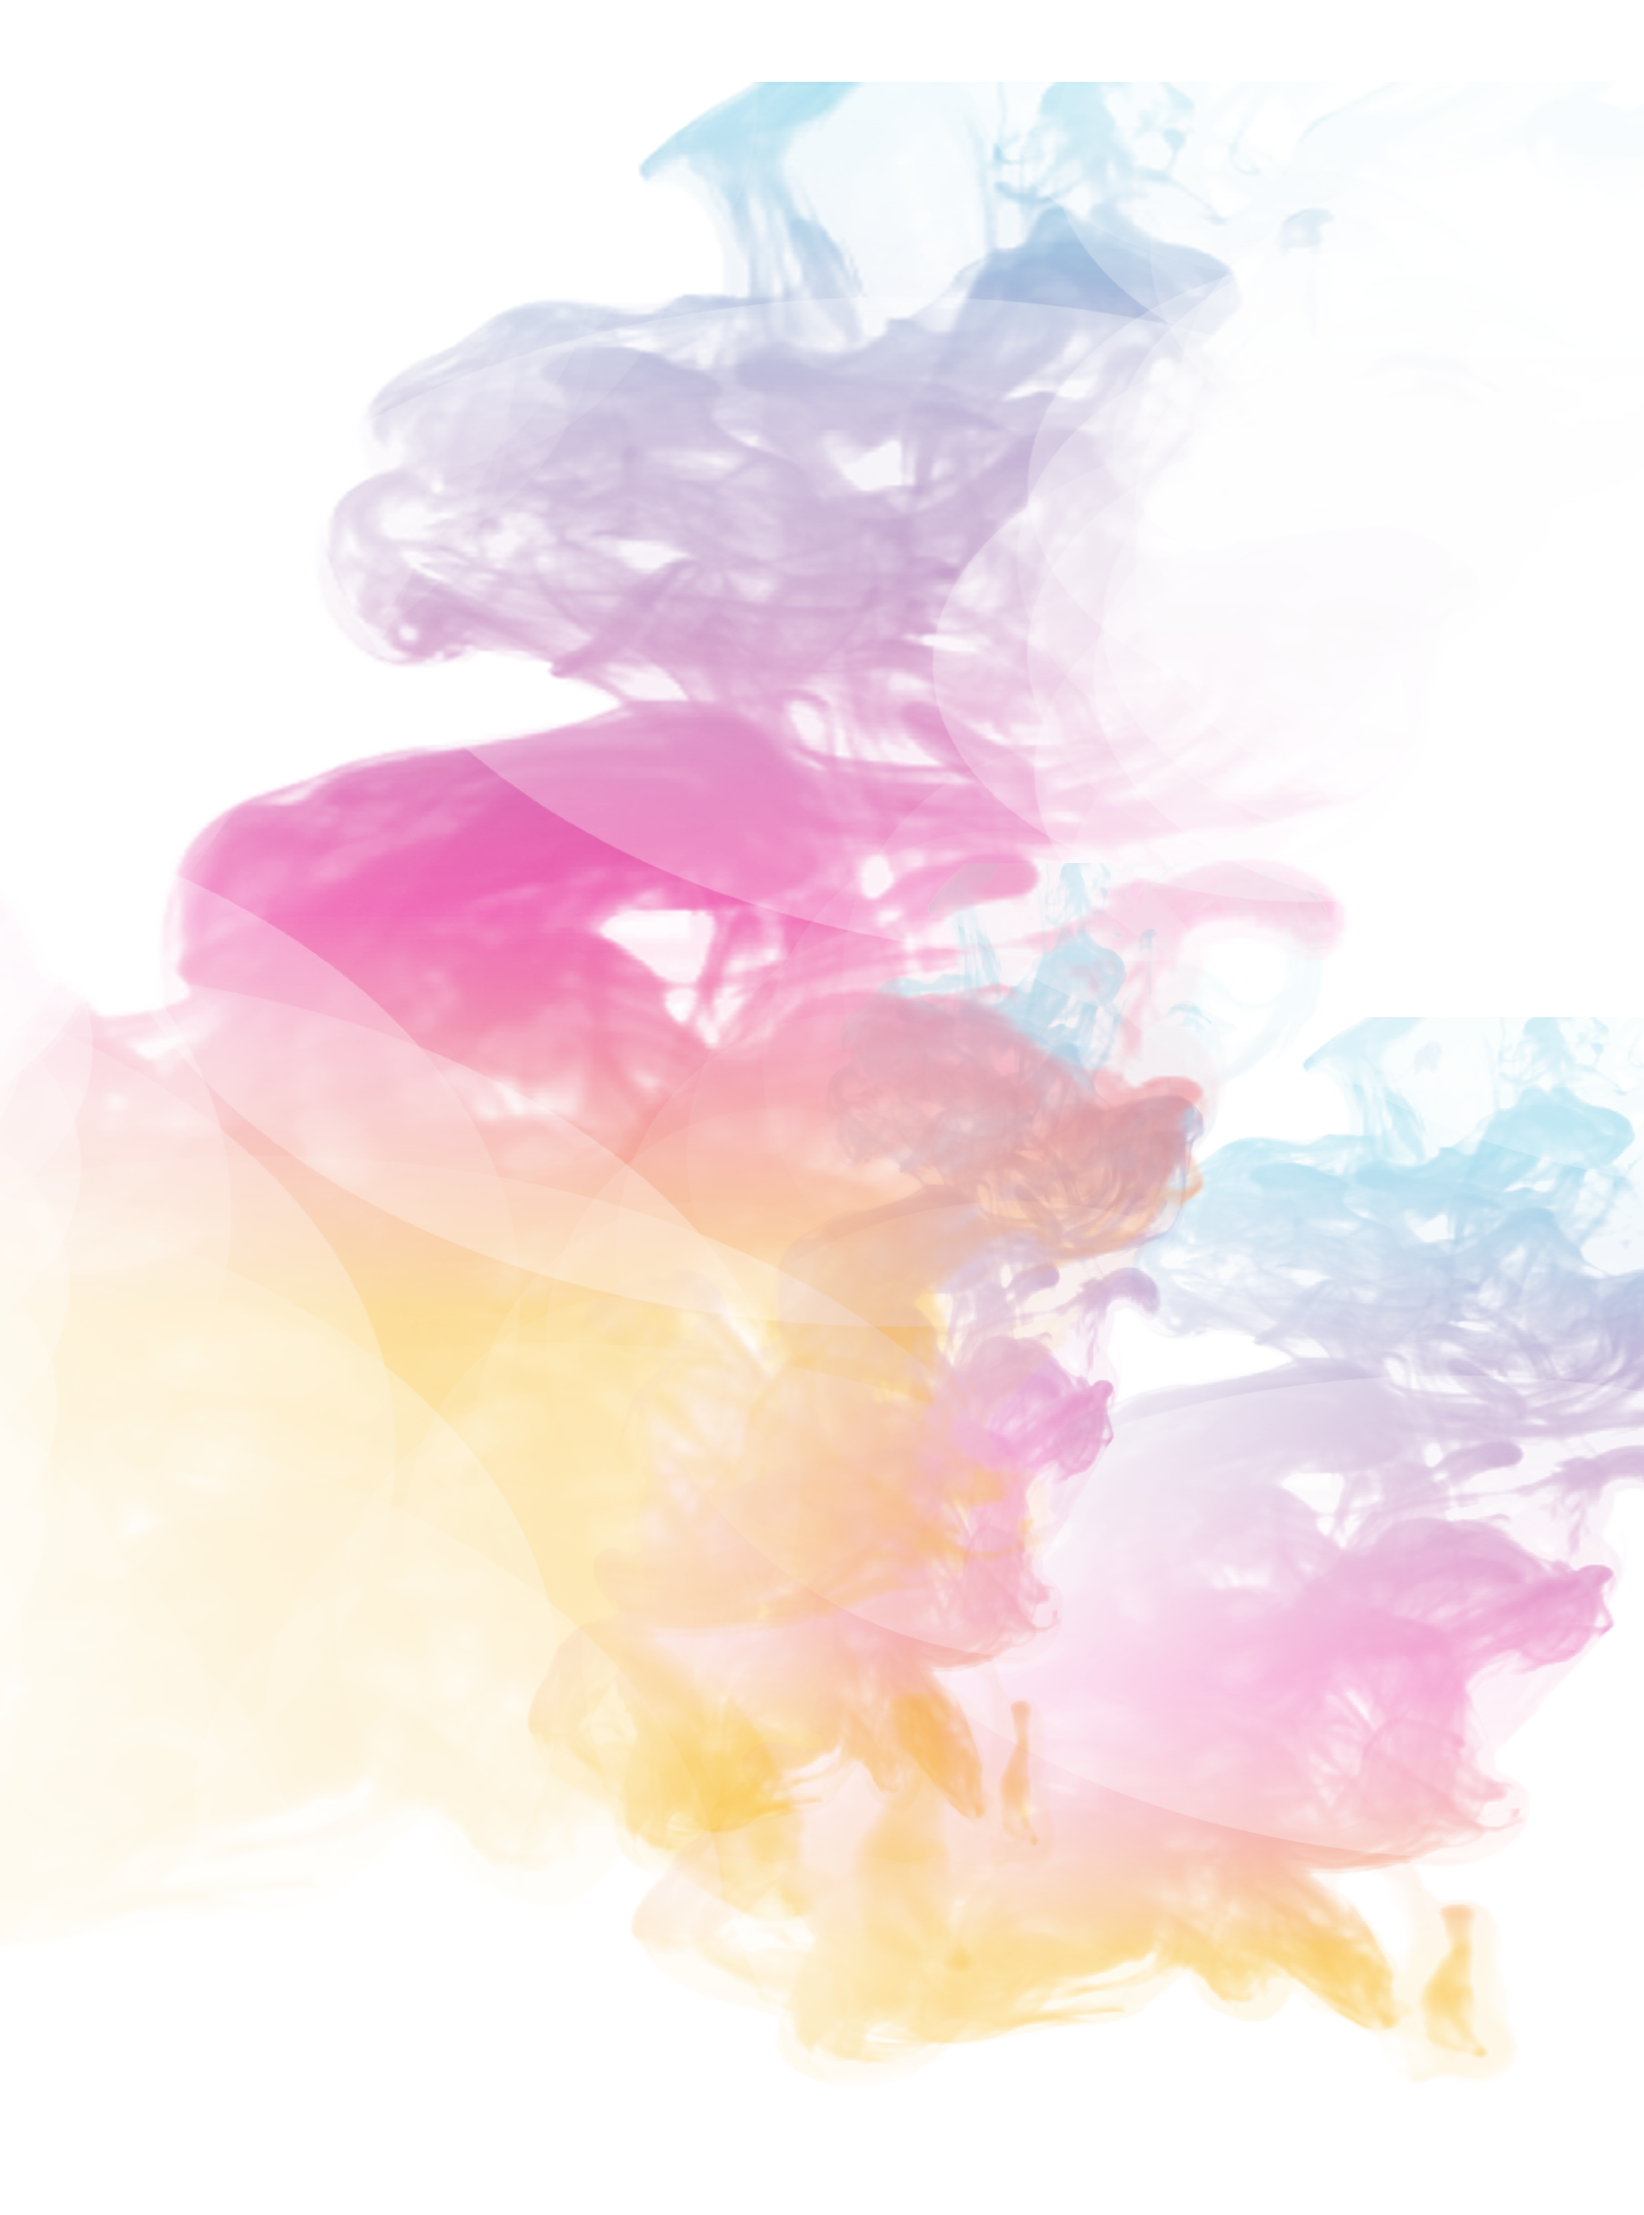
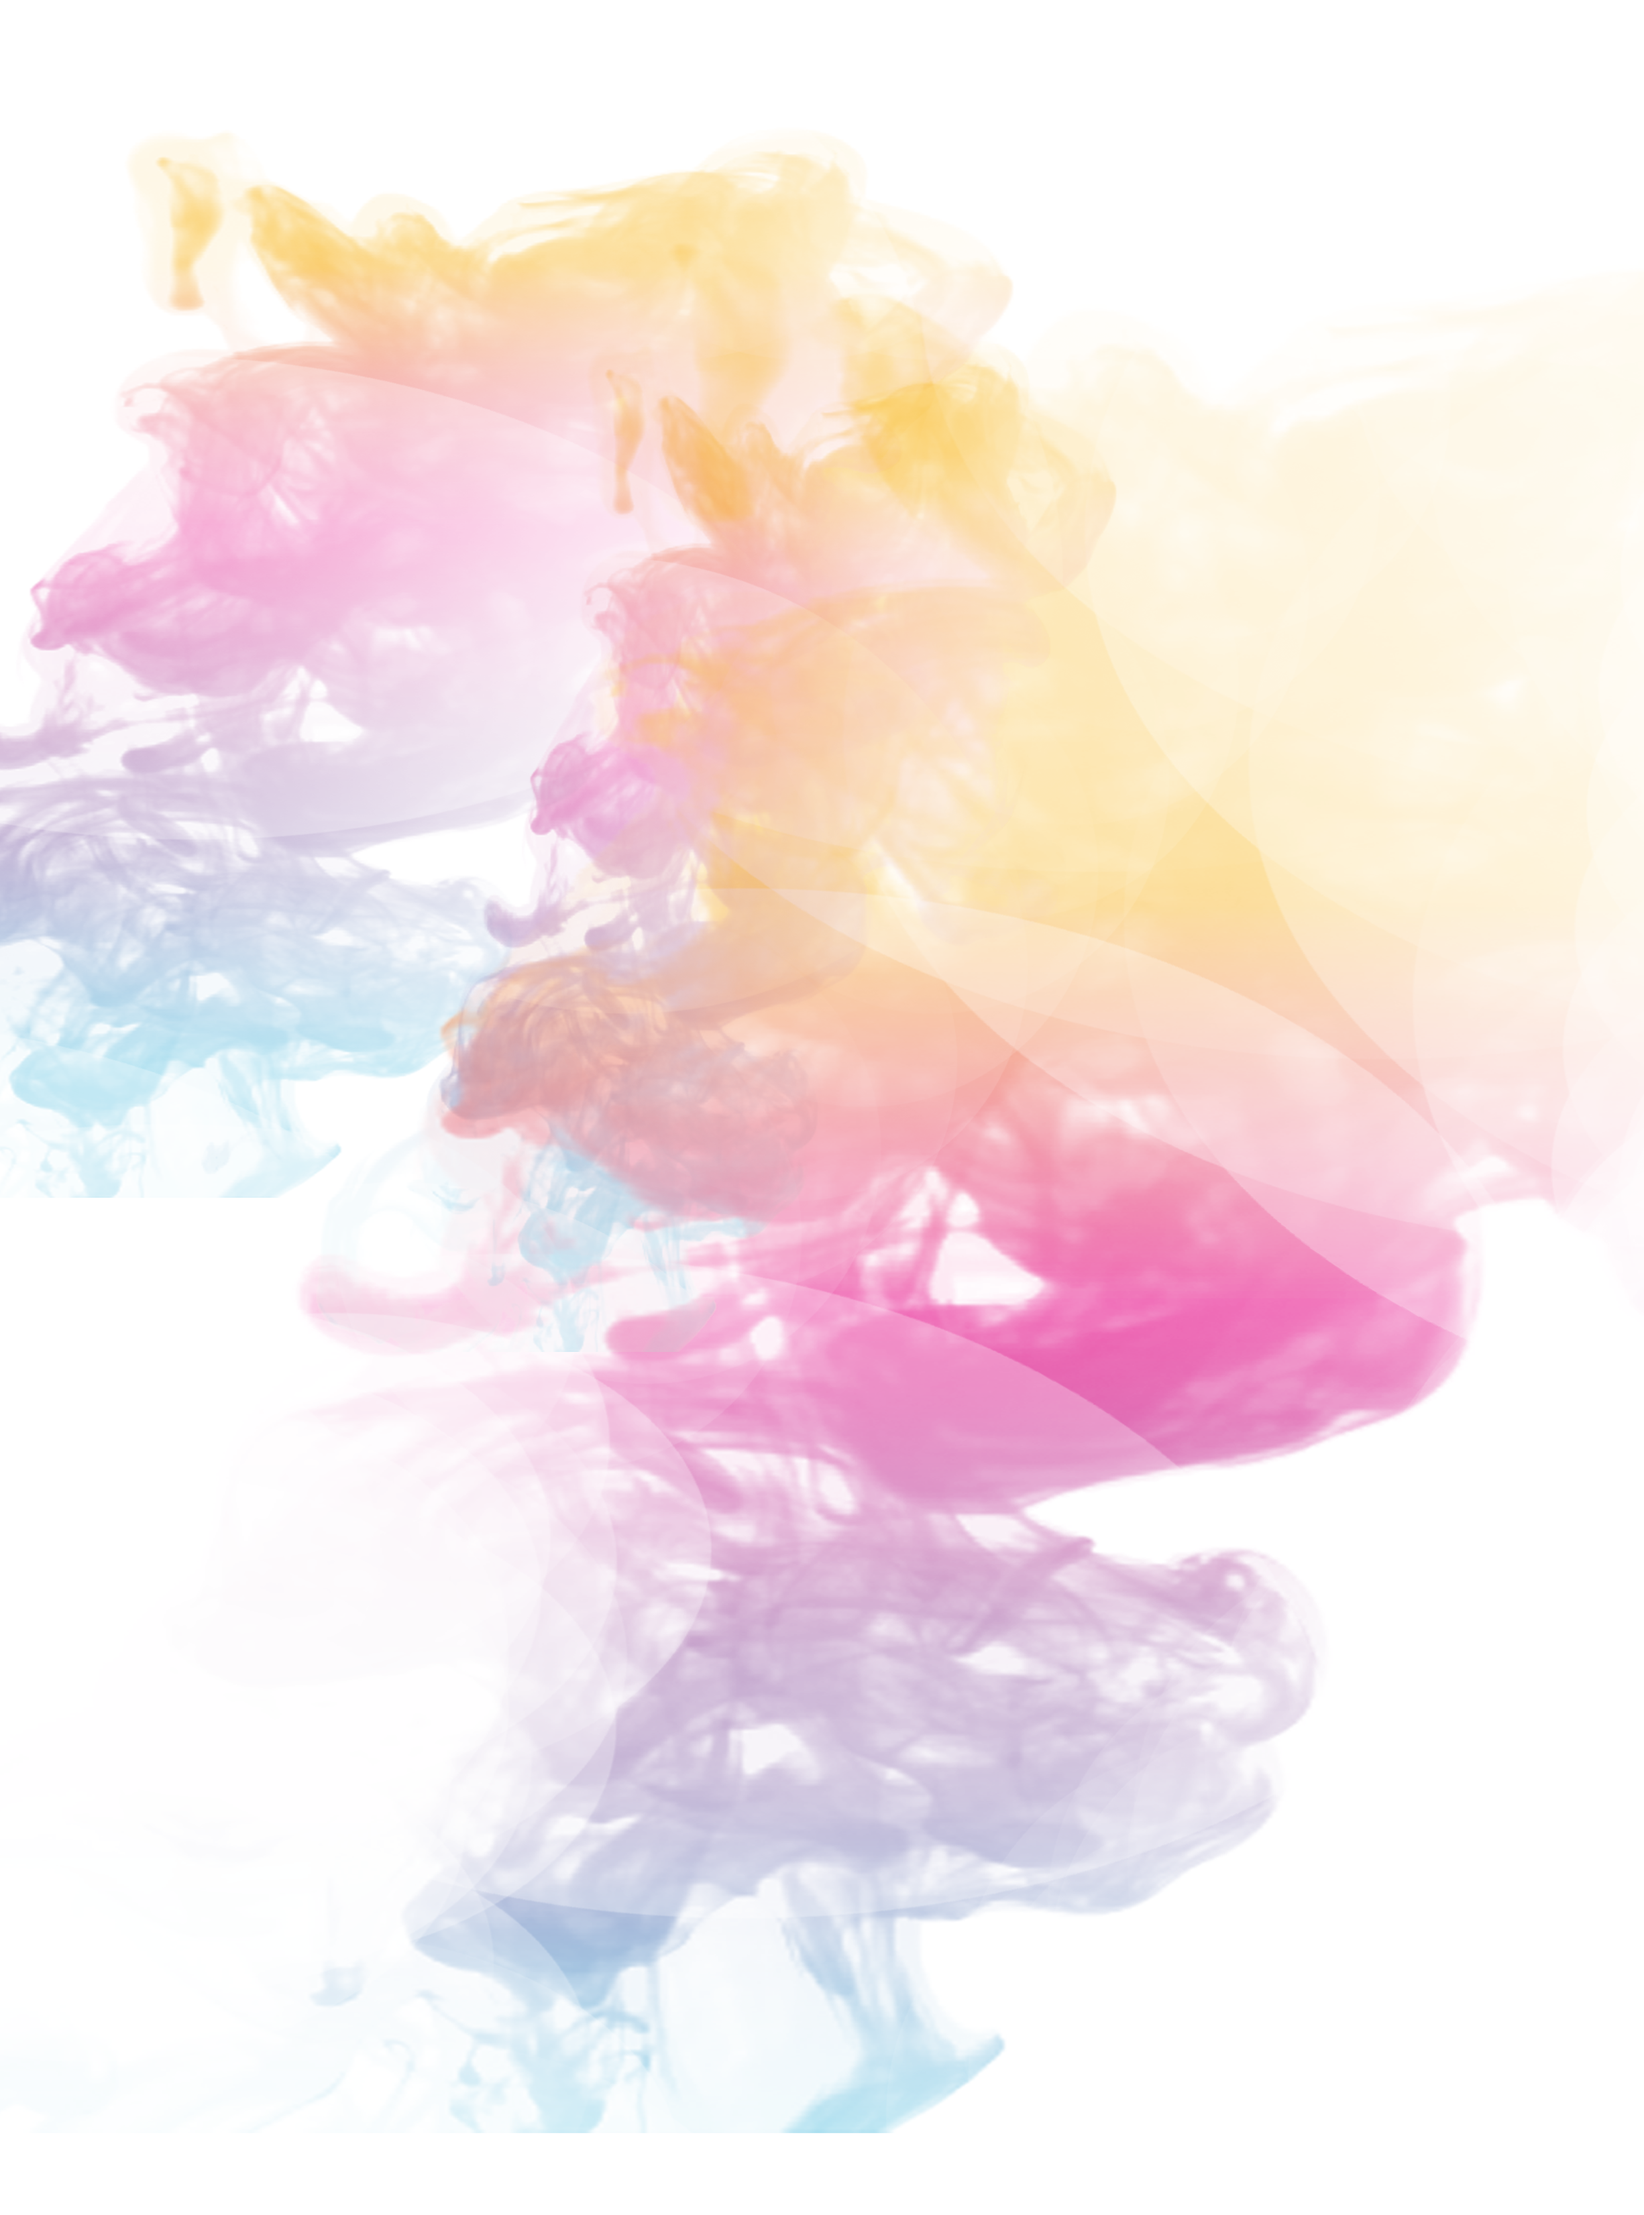
update product 16:16

diff --git a/css/style.css b/css/style.css
@@ -221,11 +221,14 @@ body {
 }
 
 .section-utama {
-  background-image: url(../img2/product/pngwing.com\ \(1\).png);
+  background-image: url(../img2/product/pngwing\ 1.png);
+  /* background-image: cover; */
+  background-position: left;
+  background-repeat: no-repeat;
 }
 
 .contact .bg {
-  background-image: url(../img2/produk-new/smoke\ 4d.png);
+  /* background-image: url(../img2/produk-new/smoke\ 4d.png); */
   background-repeat: no-repeat;
   background-position: top right;
   background-size: calc(90% - 50px);
@@ -783,7 +786,7 @@ footer .credit a {
     left: 0;
     top: 0;
     width: auto;
-    height: auto;
+    height: 100%;
     overflow: auto;
     background-color: rgba(0, 0, 0, 0.7);
   }
